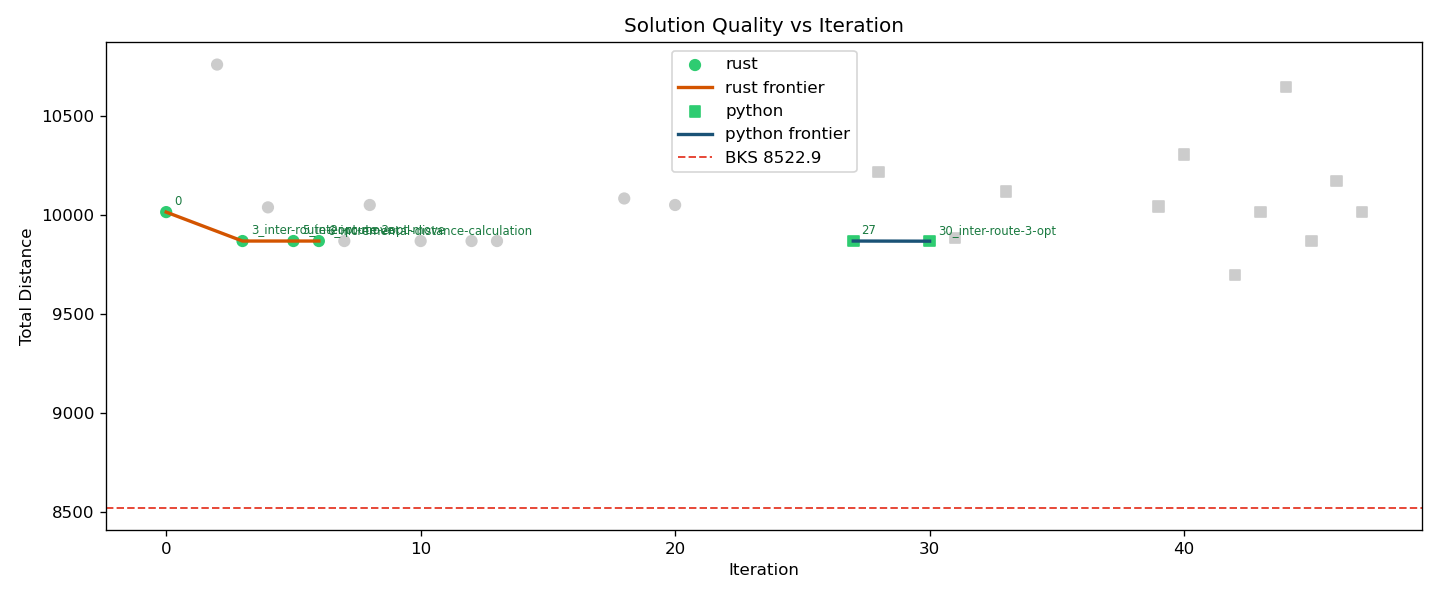
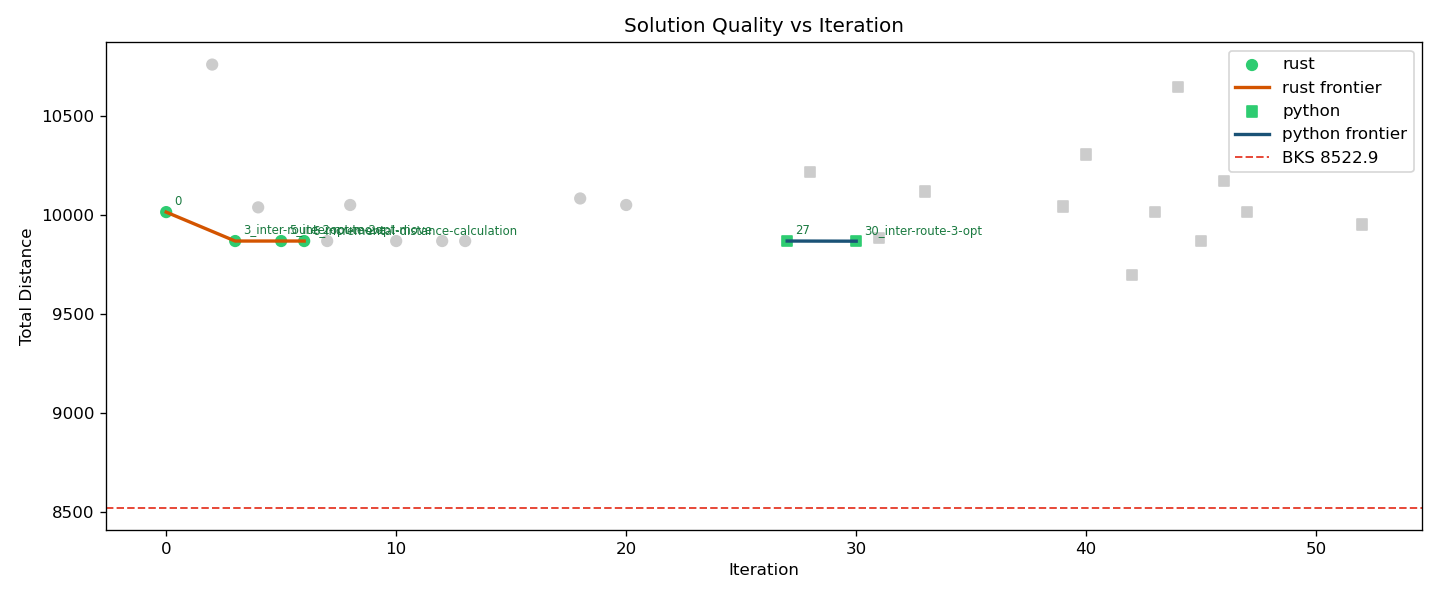
LOG [52]: update research log (experiment/52_ejection-chain-integration)

diff --git a/research_history.md b/research_history.md
@@ -878,3 +878,11 @@ INFEASIBLE
 Decision: DISCARDED
 
 ---
+
+## Iteration 52 — 2026-06-08T17:45:41
+Branch: `experiment/52_ejection-chain-integration`
+Proposal: Modify solve() to include ejection chains for systematic removal and reinsertion of customers, improving solution diversity and escaping local opta
+Result: 40v / 9953.11 / 67475ms / gap 16.78%
+Decision: DISCARDED (quality_improved=False, time_improved=False)
+
+---